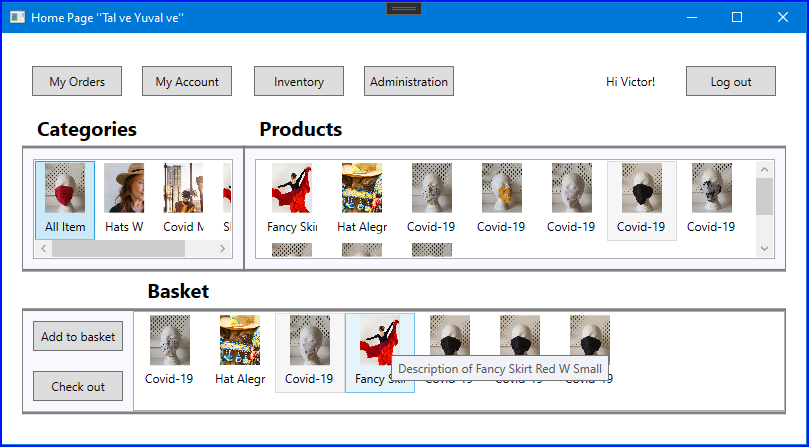
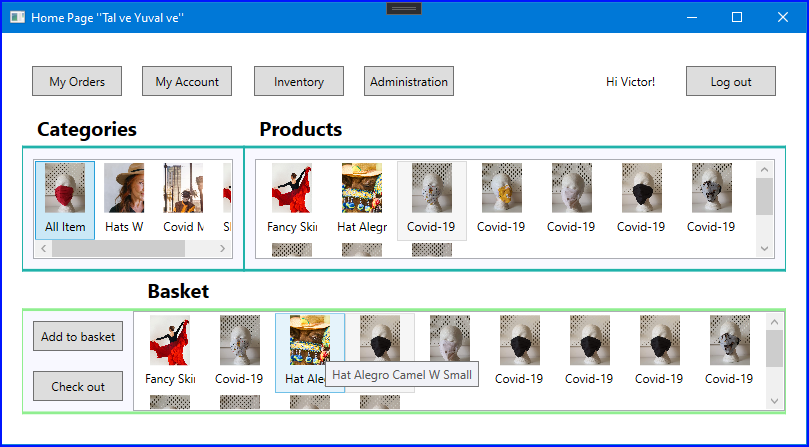
homepage design

Changed region(s): [[0.0309, 0.6689, 0.9889, 0.9306], [0.0309, 0.5817, 0.9889, 0.6107], [0.0309, 0.3199, 0.9889, 0.349]]

diff --git a/MainWindow.xaml b/MainWindow.xaml
@@ -48,7 +48,7 @@
 
         <!--  Categories  -->
         <Label Content="Categories" Grid.Column="1" Grid.Row="2" Margin="10 0" FontWeight="Bold" FontSize="20"/>
-        <Border Background="GhostWhite" BorderBrush="Gray" BorderThickness="1,3,1,3" Grid.Column="1" Grid.Row="3">
+        <Border Background="GhostWhite" BorderBrush="LightSeaGreen" BorderThickness="1,3,1,3" Grid.Column="1" Grid.Row="3">
             <DockPanel  Width="200" Height="100" Margin="10" Grid.ColumnSpan="2" HorizontalAlignment="Left">
                 <ListBox x:Name="ListBoxCategories" ScrollViewer.HorizontalScrollBarVisibility="Auto" ScrollViewer.VerticalScrollBarVisibility="Disabled" SelectedIndex="0" SelectionChanged="ListBoxCategories_SelectionChanged" SelectionMode="Single">
                     <ListBox.ItemTemplate>
@@ -73,7 +73,7 @@
 
         <!--  Products  -->
         <Label Content="Products" Grid.Column="2" Grid.Row="2" Margin="10 0" FontWeight="Bold" FontSize="20"/>
-        <Border Background="GhostWhite" BorderBrush="Gray" BorderThickness="1,3,1,3" Grid.Column="2" Grid.Row="3">
+        <Border Background="GhostWhite" BorderBrush="LightSeaGreen" BorderThickness="1,3,1,3" Grid.Column="2" Grid.Row="3">
         <DockPanel Width="520" MinWidth="200" MinHeight="100" MaxHeight="100" Margin="10" Grid.ColumnSpan="3" HorizontalAlignment="Left">
             <ListBox x:Name="ListBoxProducts" ScrollViewer.HorizontalScrollBarVisibility="Disabled" MouseDoubleClick="ListBoxProducts_MouseDoubleClick">
                 <ListBox.ItemTemplate>
@@ -97,13 +97,13 @@
 
         <!--  Basket  -->
         <Label Content="Basket" Grid.Column="1" Grid.Row="4" Margin="10 0 30 0" FontWeight="Bold" FontSize="20" HorizontalAlignment="Right"/>
-        <Border Background="GhostWhite" BorderBrush="Gray" BorderThickness="1,3,1,3" Grid.Column="1" Grid.Row="5" Grid.ColumnSpan="3">
-            <DockPanel Height="100">
+        <Border Background="GhostWhite" BorderBrush="LightGreen" BorderThickness="1,3,1,3" Grid.Column="1" Grid.Row="5" Grid.ColumnSpan="3">
+            <DockPanel Height="100" MaxWidth="762">
                 <StackPanel>
                     <Button x:Name="AddToBasket" Content="Add to basket" Margin="10" Width="90" Height="30" HorizontalAlignment="Left" VerticalAlignment="Stretch" Click="AddToBasket_Click"/>
                     <Button x:Name="CheckOut" Content="Check out" Margin="10" Width="90" Height="30" HorizontalAlignment="Left" VerticalAlignment="Stretch" Click="CheckOut_Click"/>
                 </StackPanel>
-                <ListBox x:Name="ListBoxBasket" ScrollViewer.HorizontalScrollBarVisibility="Disabled">
+                <ListBox x:Name="ListBoxBasket" ScrollViewer.HorizontalScrollBarVisibility="Disabled" ScrollViewer.VerticalScrollBarVisibility="Auto">
                     <ListBox.ItemTemplate>
                         <DataTemplate>
                             <StackPanel Orientation="Vertical"
